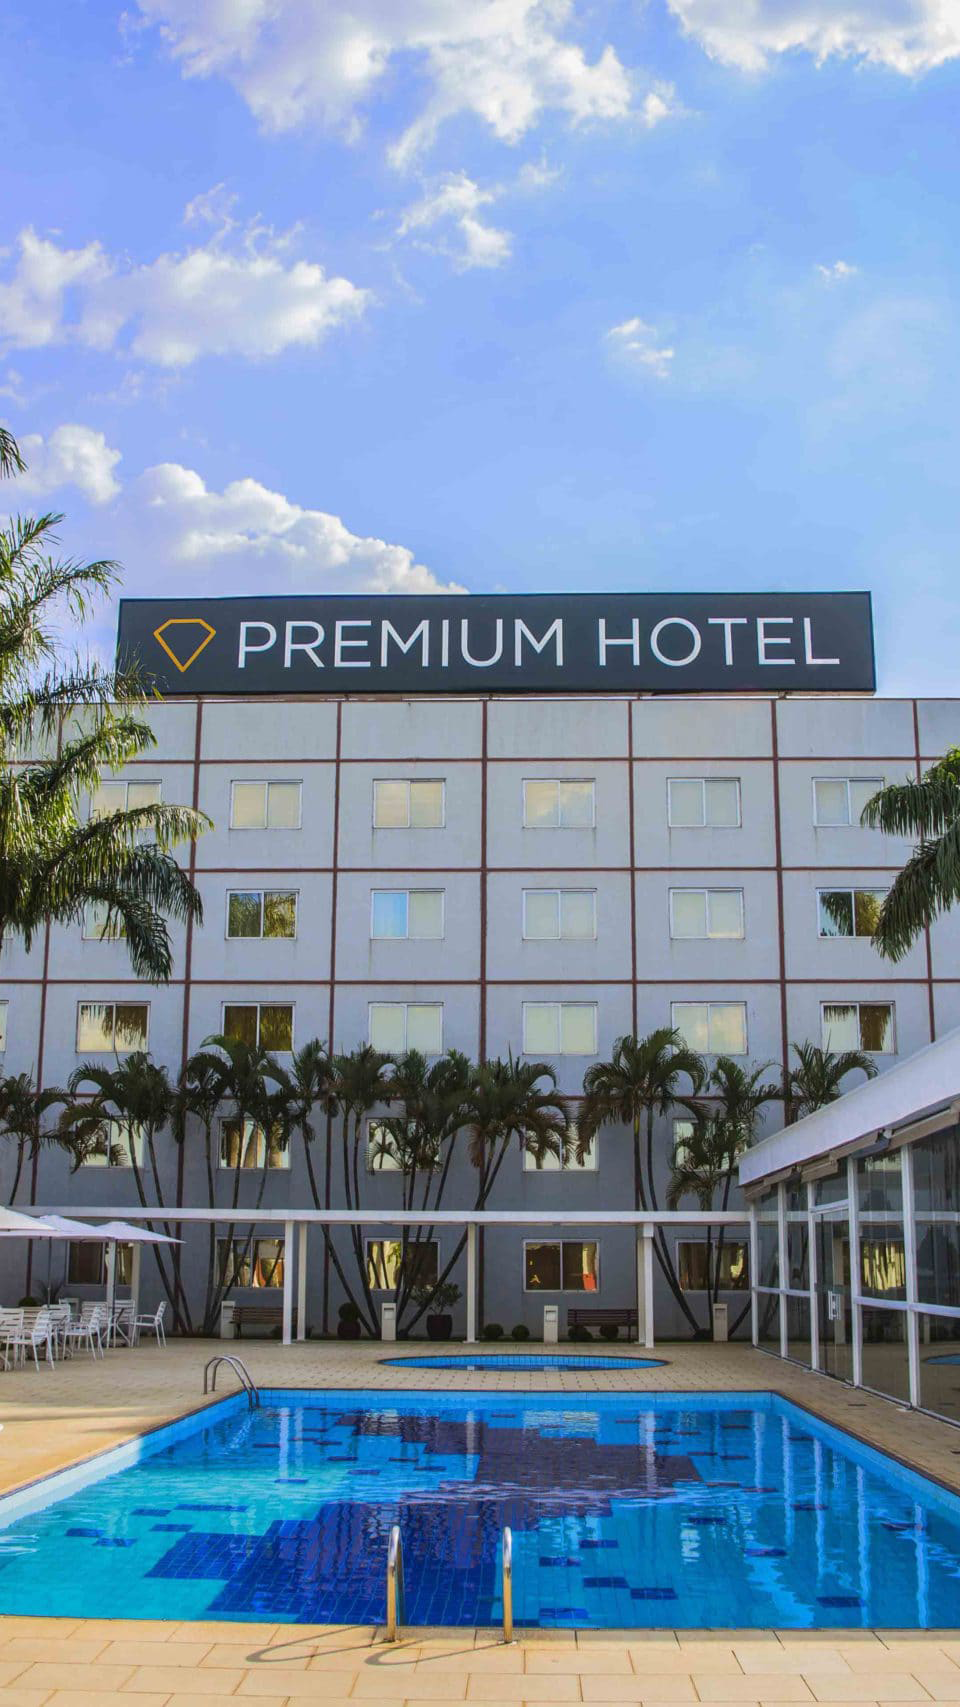
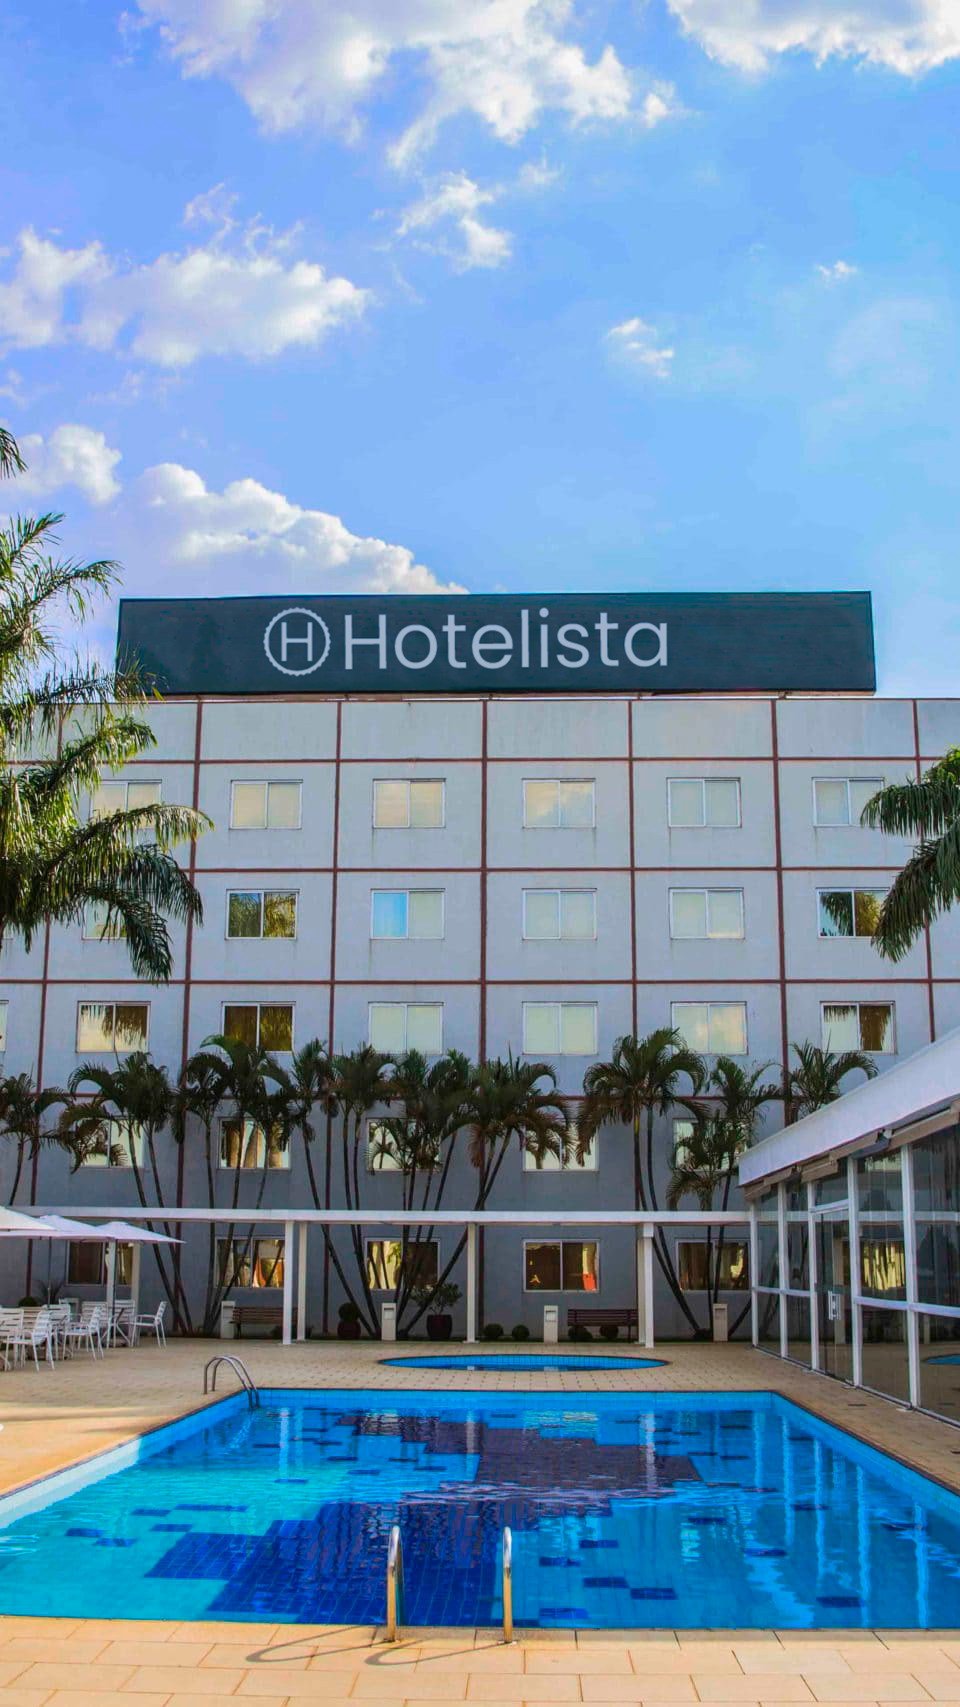
Logotipo nas imagens da página home

diff --git a/vue/public/index.html b/vue/public/index.html
@@ -9,7 +9,7 @@
   <title>Hotelista</title>
 </head>
 
-<body>
+<body style="margin: 0;">
   <noscript>
     <strong>We're sorry but <%= htmlWebpackPlugin.options.title %> doesn't work properly without JavaScript enabled.
         Please enable it to continue.</strong>
